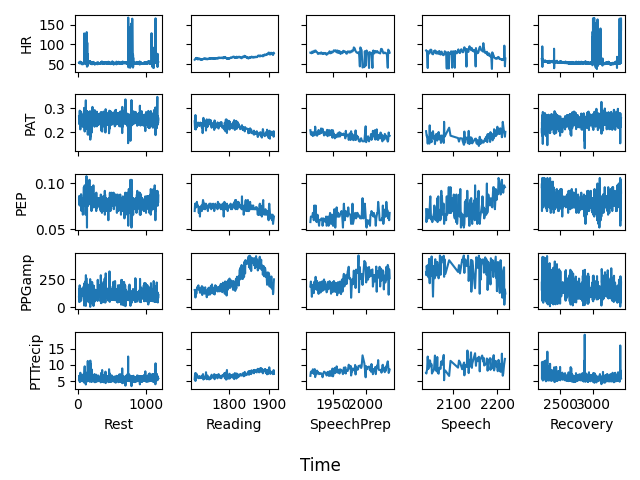
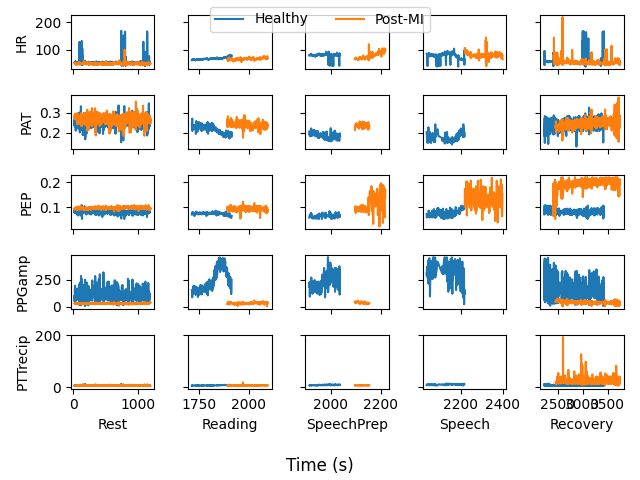
Added post-MI and legend
Not sure how to make the legend outside

diff --git a/data_processing.py b/data_processing.py
@@ -111,8 +111,9 @@ for i, feature in enumerate(Feature):
     time_MI, feat_MI = join_stimulus(dataframes_MI, 3, i)
     axes[i, 1].plot(time_MI, feat_MI)
 
-fig.supxlabel('Time')
+fig.supxlabel('Time (s)')
 plt.tight_layout()
+plt.savefig('Figure_1.png')
 plt.show()
 
 # Individual stimulus
@@ -131,6 +132,10 @@ for i, feature in enumerate(Feature):
 
         axes[len(Feature) - 1, j].set_xlabel(stim)
 
-fig.supxlabel('Time')
+fig.supxlabel('Time (s)')
+
+fig.legend(['Healthy', 'Post-MI'], loc='upper center', ncols=2)
+
 plt.tight_layout()
+plt.savefig('Figure_2.png')
 plt.show()
